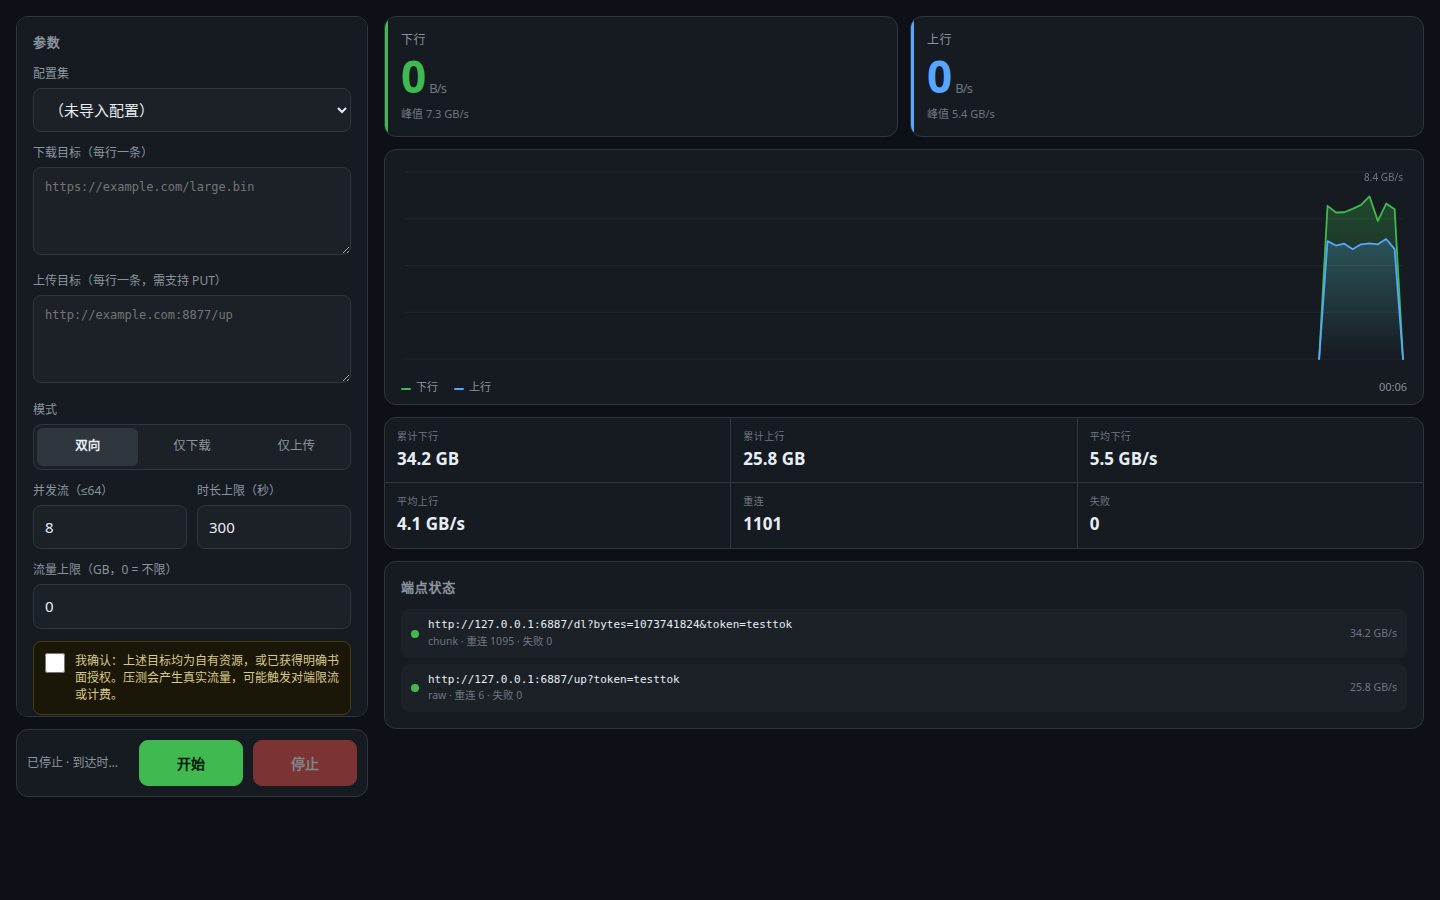
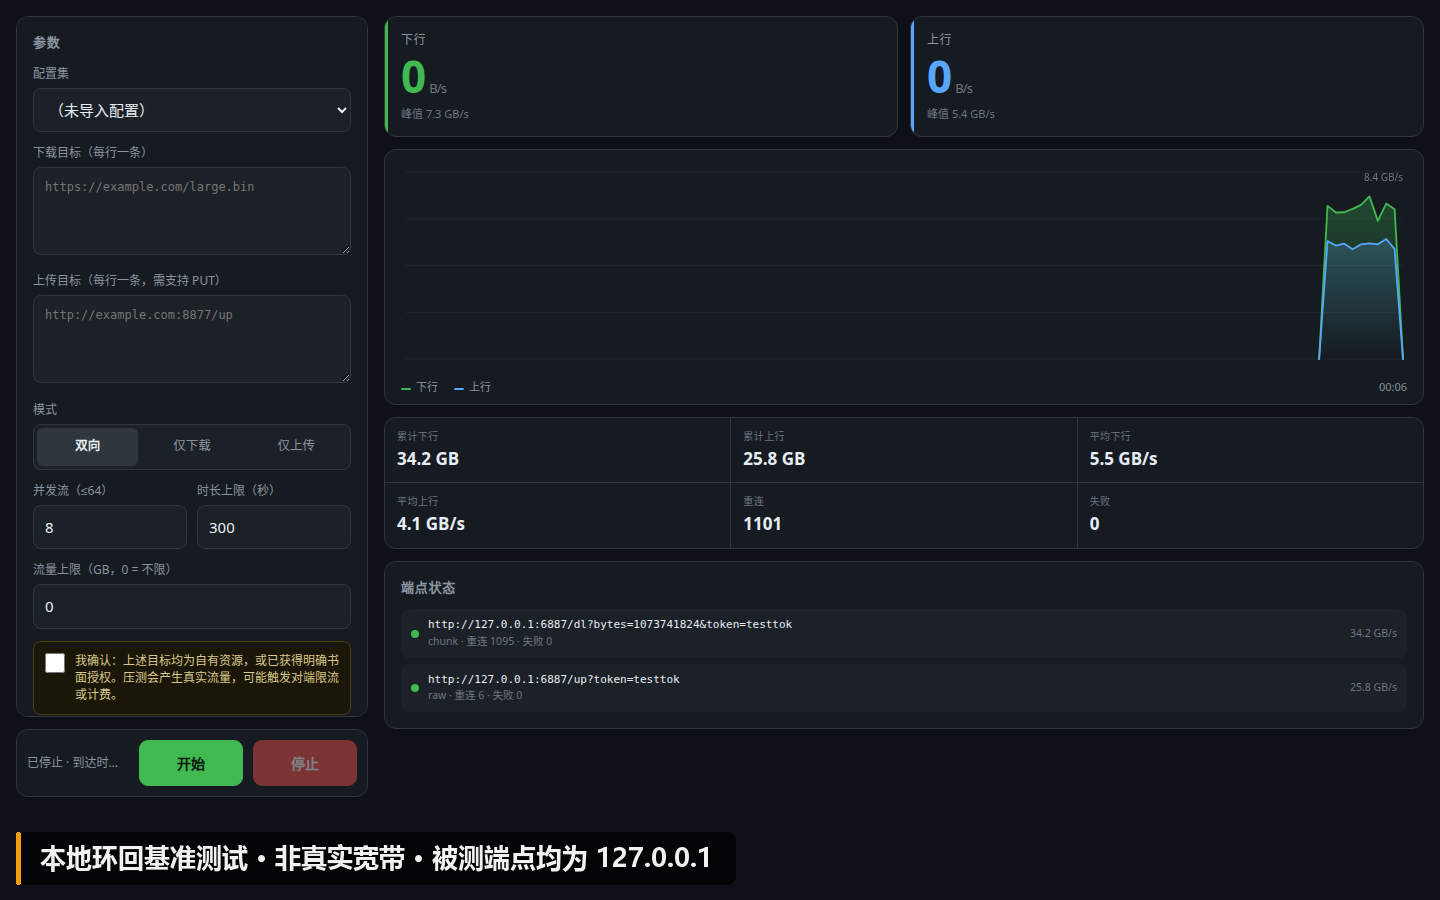
release: 打 tag 自动打包并发布 fpk，截图与实测数据脱敏
- 新增 .github/workflows/release.yml：推 v* tag 时自动跑 build.sh，
  产出双架构 fpk 挂到 Release；也支持 workflow_dispatch 指定 tag 重发
- 发版前强制校验 tag 与 build.sh 的 VER 一致，避免包名与内容对不上
- 产物独立复核：manifest 的 version/platform、checksum 是否等于 app.tgz
  实际 md5、包内必备条目、内嵌程序 ELF magic（不依赖 file 命令）
- screenshots/pc-1440.png 是本地环回基准（7.3 GB/s），加角标注明
  非真实宽带且端点均为 127.0.0.1，避免被当成虚假宣传
- README 的实测段落改为相对值（稳定值/峰值 36% -> 79%），不再公开
  作者家宽的具体带宽量级；「在你的网络下」改为通用表述
- CONTRIBUTING 补发版流程与重发 tag 的正确做法

Changed region(s): [[0.0, 0.9333, 0.5, 0.9644]]

diff --git a/CONTRIBUTING.md b/CONTRIBUTING.md
@@ -71,6 +71,24 @@ GOOS=linux GOARCH=amd64 go vet ./...
 注意 `build.sh` 有副作用：会重写 `ICON.PNG` / `ICON_256.PNG` / `ui/icon.png`，
 并往 `sink/` 写一份二进制。提交前用 `git status` 确认没有把意外的图标改动带进来。
 
+## 发版
+
+打 tag 即发版，CI 自动打包并挂到 Release 上（`.github/workflows/release.yml`）：
+
+```bash
+# 1. 改 build.sh 的 VER、manifest 的 version、README 顶部章节
+# 2. 提交后打 tag（必须带 v 前缀，且号码与 VER 完全一致）
+git tag -a v1.5.5 -m "fnspeed 1.5.5"
+git push origin main --tags
+```
+
+tag 与 `build.sh` 的 `VER` 不一致时流程会直接失败，不会产出名字和内容对不上的包。
+workflow 还会独立复核：manifest 的 version/platform、manifest 声明的 checksum 是否
+等于 `app.tgz` 实际 md5、包内必备条目是否齐全、内嵌程序是否为 64 位 ELF。
+
+需要重发某个已有 tag 时，用 Actions 页面的 `workflow_dispatch` 手动指定 tag，
+不要 `git tag -f` 后强推——那样会让别人的克隆里出现分裂历史。
+
 ## 免责
 
 本工具用于**自有或已获明确授权**的链路测速。向未授权的站点施压可能违反当地法律

diff --git a/README.md b/README.md
@@ -174,12 +174,12 @@ computed style 缓存进 `TH`，图表网格、坐标轴、填充渐变色一并
   服务器不认 Range 时返回 200 全量，行为退化成从头读，不影响正确性。
 - **重连抖动**：读完重连时加 10–80ms 随机延迟，避免多条流在同一毫秒撞在一起。
 
-实测同一场景：修改前曲线在 0↔338 Mbps 之间剧烈摆动，稳定值只有峰值的 36%；
-修改后稳定在 100–250 Mbps，稳定值 186.8M / 峰值 235.5M。
+实测同一场景（千兆家宽）：修改前曲线在 0 与峰值之间剧烈摆动，谷底直接归零，稳定值
+只有峰值的 36%；修改后不再归零，稳定值提升到峰值的约 79%。
 
 ### 国内源全部换掉
 
-上一版的十个国内源在你的网络下**只有腾讯和苹果能用**，其余全部被拦：
+上一版的十个国内源在普通国内家宽环境下**只有腾讯和苹果能用**，其余全部被拦：
 
 | 源 | 实际响应 |
 |---|---|
